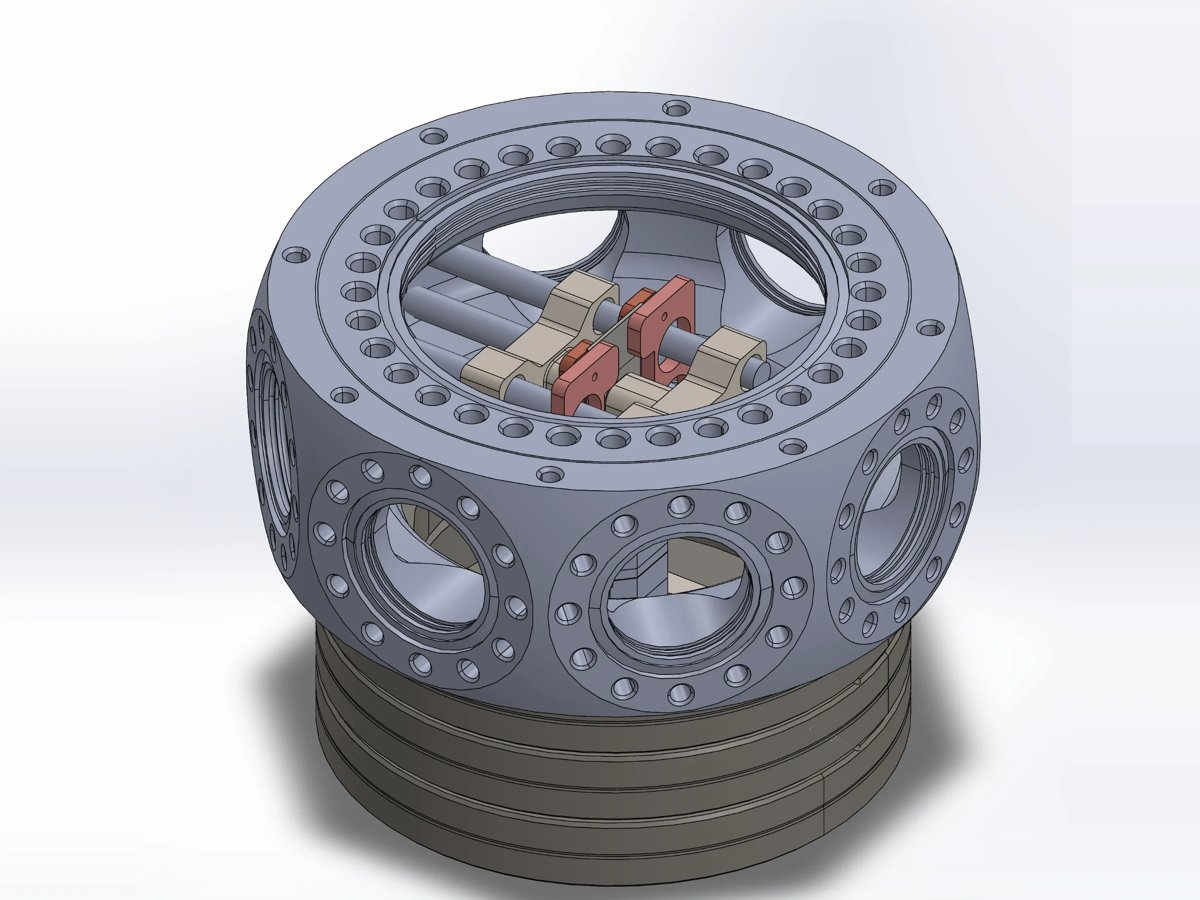
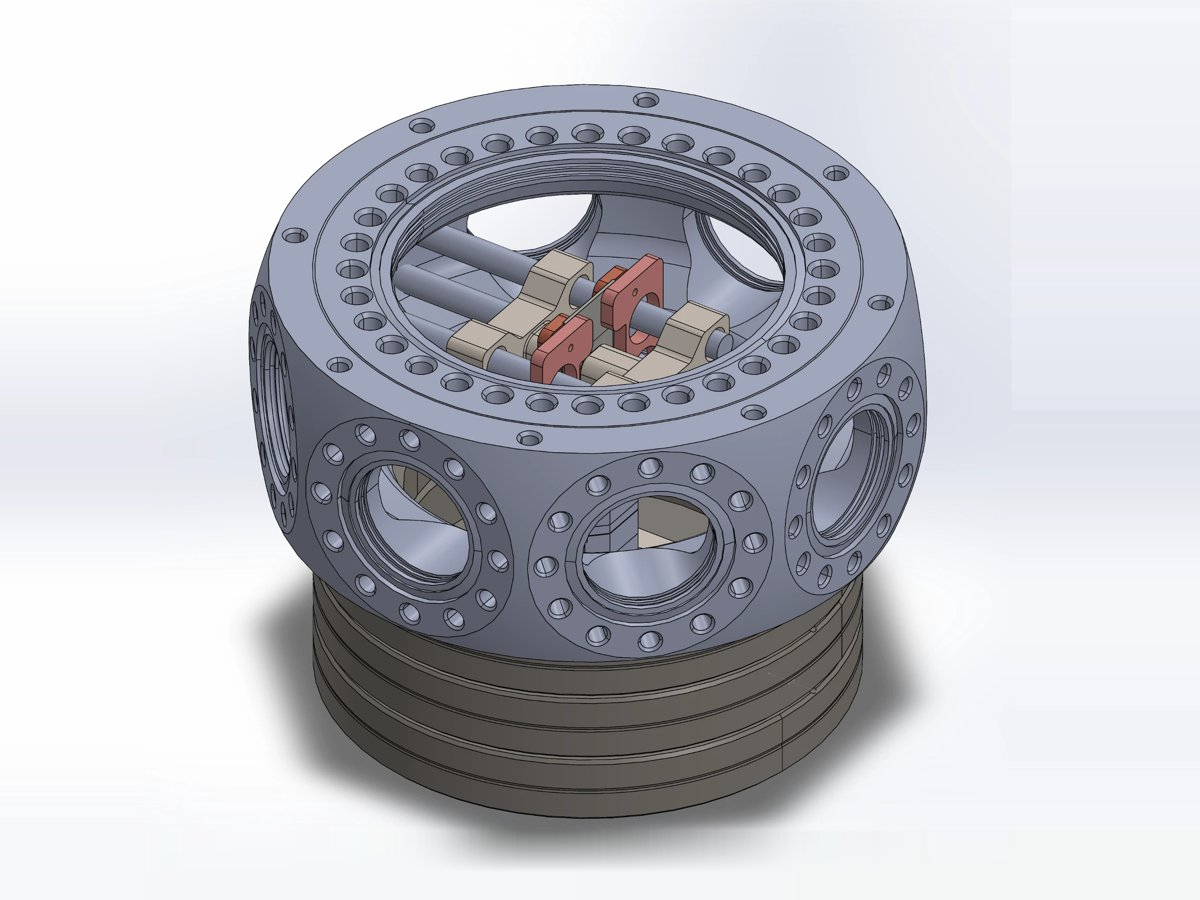
Centre the chamber render in its slide

diff --git a/project-membrane.html b/project-membrane.html
@@ -44,7 +44,7 @@
     <div class="slider project-figure" aria-roledescription="carousel" aria-label="Project pictures">
       <div class="slides">
         <figure class="slide">
-          <img src="assets/projects/membrane/chamber.webp" alt="CAD render of the vacuum chamber with the trapping assembly visible through the top viewport" width="2539" height="1904">
+          <img src="assets/projects/membrane/chamber.webp" alt="CAD render of the vacuum chamber with the trapping assembly visible through the top viewport" width="2749" height="2062">
           <figcaption>Trapping assembly inside the vacuum chamber (SolidWorks model).</figcaption>
         </figure>
         <figure class="slide">
